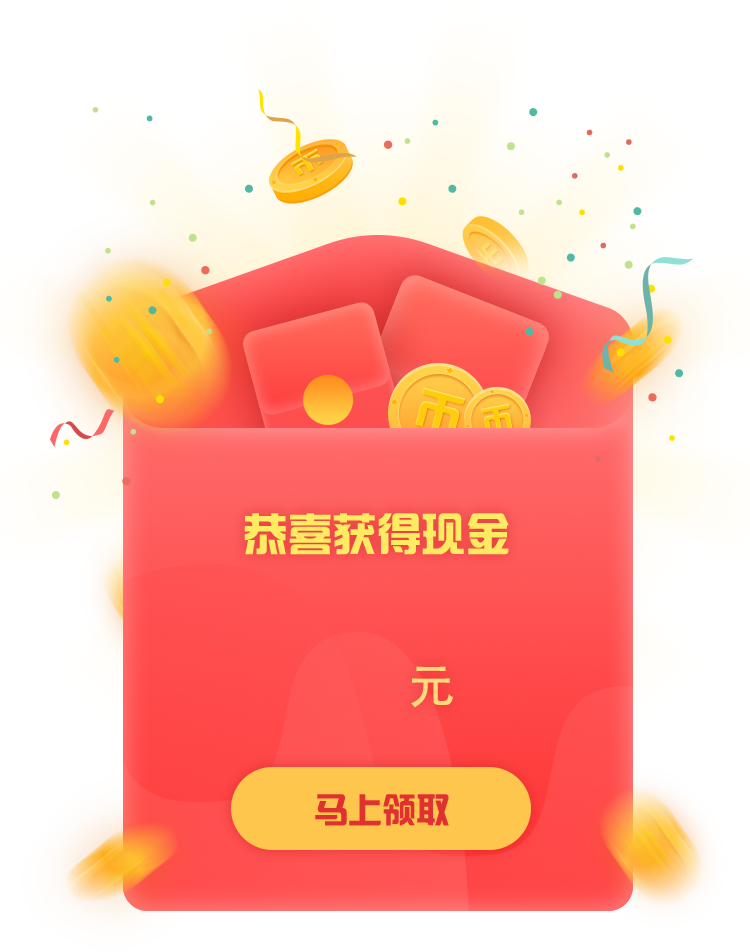
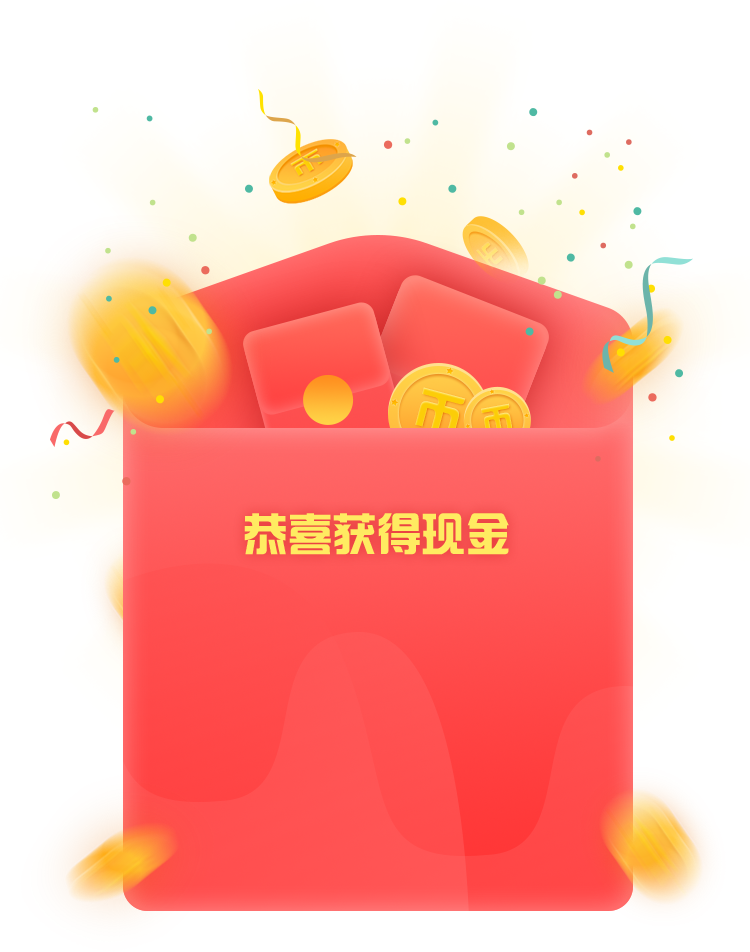
更改

Changed region(s): [[0.3067, 0.792, 0.7053, 0.9139], [0.552, 0.7006, 0.6133, 0.7616]]

diff --git a/pages/home/home.js b/pages/home/home.js
@@ -2,7 +2,8 @@
 const util = require('../../utils/util.js')
 Page({
   data: {
-    activeIndex: 1, //1关闭弹出层 2打开弹框 3手的Animation 
+    activeIndex: 1, //1关闭弹出层 2中奖 3手的Animation 4未中奖 ,
+    money:5
   }, 
   onShow: function () {
     var that = this;
@@ -17,6 +18,11 @@ Page({
     this.setData({
       activeIndex: 1
     })
+  },
+  // 点击领取
+  Receive: function(){
+    console.log("领取金额")
+    this.maskClose()
   },
   // 点击触发摇一摇
   startAnimation: function () {
@@ -35,13 +41,13 @@ Page({
       wx.showLoading({
           title: '正在加载...',
       })
-        setTimeout(function () {
-          wx.hideLoading()
-          that.setData({
-              activeIndex:2
-          })
-        },1500)
+      setTimeout(function () {
+        wx.hideLoading()
+        // 控制 中奖跟未中奖的图片
+        that.setData({
+            activeIndex:2
+        })
+      },1500)
     }
   },
- 
 })

diff --git a/app.js b/app.js
@@ -28,8 +28,6 @@ App({
         }
       }
     })
-    //登录
-
   },
   globalData: {
     userInfo: null
